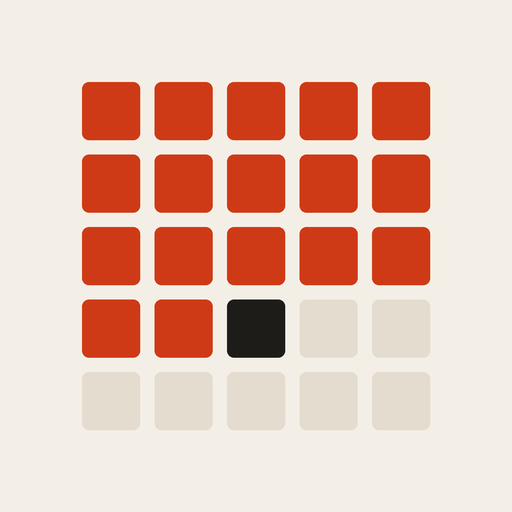
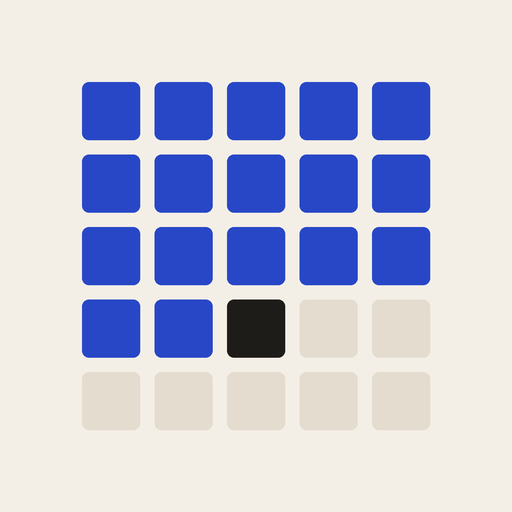
Accent: vermilion to cobalt (v5.1)
Newt preferred not to use red. The cobalt accent is #2747c7 in light
mode and #8ea2ff in dark. The icons are redrawn to match and the cache
is bumped to rejections-v7.

Claude-Session: https://claude.ai/code/session_01BZNn1qeCd9qqarhfQTNqHA

Changed region(s): [[0.1562, 0.1562, 0.8438, 0.7188]]

diff --git a/app.css b/app.css
@@ -1,9 +1,9 @@
 /* 1,000 Rejections v5: a field notebook with poster numbers.
-   Warm paper, charcoal ink, one vermilion accent that means action and progress.
+   Warm paper, charcoal ink, one cobalt accent that means action and progress.
    Schibsted Grotesk for everything, IBM Plex Mono for counts and dates. */
 :root{
   --bg:#f4efe6; --surface:#fbf8f2; --ink:#1e1c19; --muted:#6b645b; --line:#e0d8ca; --cell:#e4ddcf;
-  --accent:#cf3a16; --accent-ink:#ffffff; --accent-soft:#f5dccf;
+  --accent:#2747c7; --accent-ink:#ffffff; --accent-soft:#dfe4f7;
   --yes:#36754f; --wait:#94600f;
   --sans:"Schibsted Grotesk",system-ui,-apple-system,"Segoe UI",sans-serif;
   --mono:"IBM Plex Mono",ui-monospace,"SF Mono",Menlo,monospace;
@@ -12,10 +12,10 @@
 }
 @media (prefers-color-scheme:dark){:root:not([data-theme="light"]){
   --bg:#1b1a18; --surface:#252320; --ink:#f2ede4; --muted:#a69e92; --line:#36332e; --cell:#302d29;
-  --accent:#ff6a40; --accent-ink:#1b1a18; --accent-soft:#4a2a1f; --yes:#7fc19a; --wait:#e3aa4c; color-scheme:dark}}
+  --accent:#8ea2ff; --accent-ink:#1b1a18; --accent-soft:#262c4a; --yes:#7fc19a; --wait:#e3aa4c; color-scheme:dark}}
 :root[data-theme="dark"]{
   --bg:#1b1a18; --surface:#252320; --ink:#f2ede4; --muted:#a69e92; --line:#36332e; --cell:#302d29;
-  --accent:#ff6a40; --accent-ink:#1b1a18; --accent-soft:#4a2a1f; --yes:#7fc19a; --wait:#e3aa4c; color-scheme:dark}
+  --accent:#8ea2ff; --accent-ink:#1b1a18; --accent-soft:#262c4a; --yes:#7fc19a; --wait:#e3aa4c; color-scheme:dark}
 
 *{box-sizing:border-box}
 html{-webkit-text-size-adjust:100%;text-size-adjust:100%}

diff --git a/extras.js b/extras.js
@@ -111,7 +111,7 @@
   async function sharePicture(kind){
     try { await document.fonts.ready; } catch(e){}
     const W = 1080, H = 1350, c = document.createElement("canvas"); c.width = W; c.height = H; const g = c.getContext("2d");
-    const bg = css("--bg") || "#eef1f6", ink = css("--ink") || "#141a2b", muted = css("--muted") || "#5b6478", accent = css("--accent") || "#2340d9", cell = css("--cell") || "#dde2ec";
+    const bg = css("--bg") || "#eef1f6", ink = css("--ink") || "#141a2b", muted = css("--muted") || "#5b6478", accent = css("--accent") || "#2747c7", cell = css("--cell") || "#dde2ec";
     const disp = "'Schibsted Grotesk',system-ui,sans-serif", body = "'Schibsted Grotesk',system-ui,sans-serif";
     g.fillStyle = bg; g.fillRect(0, 0, W, H);
     const nos = items.filter(isNo).length, yes = items.filter(x => x.status === "yes").length, asks = items.filter(x => x.status !== "idea").length;

diff --git a/sw.js b/sw.js
@@ -1,6 +1,6 @@
 // Offline support: try the network first so updates arrive right away; fall back to the cached copy offline.
 // Bump CACHE when files change.
-const CACHE = "rejections-v6";
+const CACHE = "rejections-v7";
 const SHELL = ["/", "/index.html", "/app.css", "/library.js", "/app.js", "/extras.js", "/nav.js", "/tour.js", "/manifest.webmanifest", "/icon-192.png", "/apple-touch-icon.png"];
 self.addEventListener("install", e => { e.waitUntil(caches.open(CACHE).then(c => c.addAll(SHELL)).then(() => self.skipWaiting())); });
 self.addEventListener("activate", e => { e.waitUntil(caches.keys().then(ks => Promise.all(ks.filter(k => k !== CACHE).map(k => caches.delete(k)))).then(() => self.clients.claim())); });

diff --git a/app.js b/app.js
@@ -5,7 +5,7 @@ const PRI = {High:3, Mid:2, Eventually:1};
 const DIFFS = ["Easy","Medium","Hard"];
 const LABEL = {idea:"Idea", waiting:"Waiting", no:"Rejected", yes:"Accepted", noreply:"No reply", withdrawn:"Withdrawn"};
 const DAY = 864e5;
-const VERSION = "5", VERSION_DATE = "Nov 2, 2026";
+const VERSION = "5.1", VERSION_DATE = "Nov 2, 2026";
 const DEFAULTS = {weeklyGoal: 10, targetDate: "", noReplyCounts: true, followUpDays: 7, askReflect: true, lastBackup: 0, dayStartHour: 0, pauses: [], reminderTime: "", backupSnooze: 0, installDismissed: 0, monthSeen: {}, monthNotes: {}, dareOverride: null};
 
 let items = load();

diff --git a/README.md b/README.md
@@ -14,7 +14,7 @@ A plain static site with no build step. Every file is served as it is.
 - `nav.js`: the tab bar, the full grid with tap-for-details, Pending on Today, the square-fill animation, haptics and the theme switch
 - `tour.js`: the guided tour, using sample data
 - `library.js`: the ask library (window.ASK_LIBRARY)
-- `app.css`: all styles (v5 design: warm paper, charcoal, one vermilion accent; Schibsted Grotesk and IBM Plex Mono; light and dark)
+- `app.css`: all styles (v5 design: warm paper, charcoal, one cobalt accent; Schibsted Grotesk and IBM Plex Mono; light and dark)
 - `sw.js`: offline service worker. Bump `CACHE` whenever files change.
 
 Data stays on the phone, in localStorage (`rejections.v1`, `rejections.settings`), with a second copy in IndexedDB (`rejections` / `copy` / `main`). There is no server and no sync.
@@ -23,5 +23,6 @@ When you change something, bump `VERSION` in app.js and `CACHE` in sw.js.
 
 ## Versions
 
+- v5.1 (Nov 2, 2026): accent changed from vermilion to cobalt (#2747c7; #8ea2ff in dark), with a new icon to match.
 - v5 (Nov 2, 2026): redesign from the design questionnaire, with five tabs and a new look. The data format didn't change.
 - v4.1 (Oct 30, 2026): commit 0e50a55 on main. To go back, revert to it or promote that deployment in Vercel.
